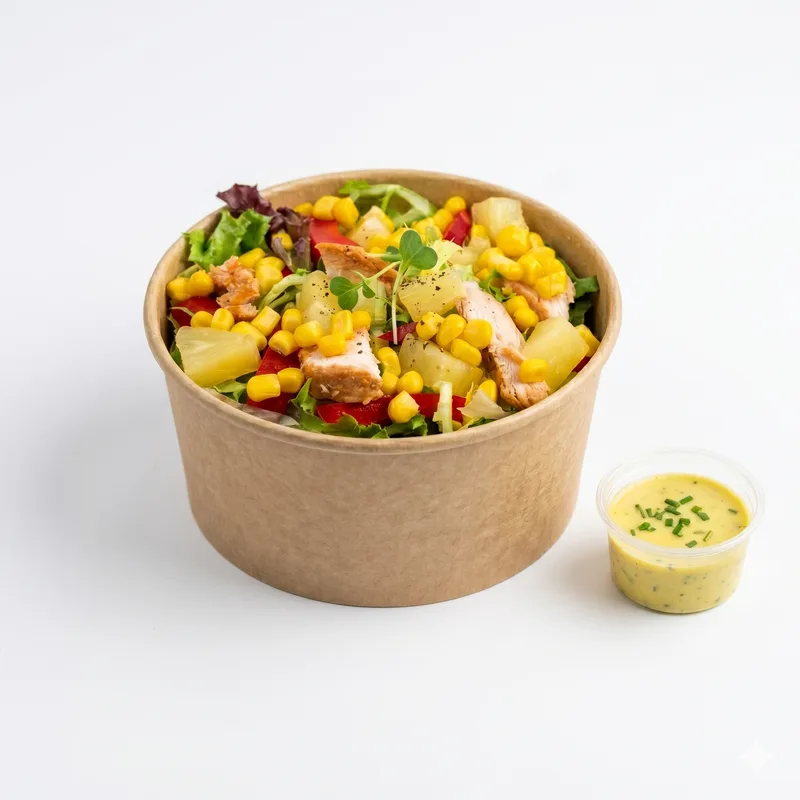
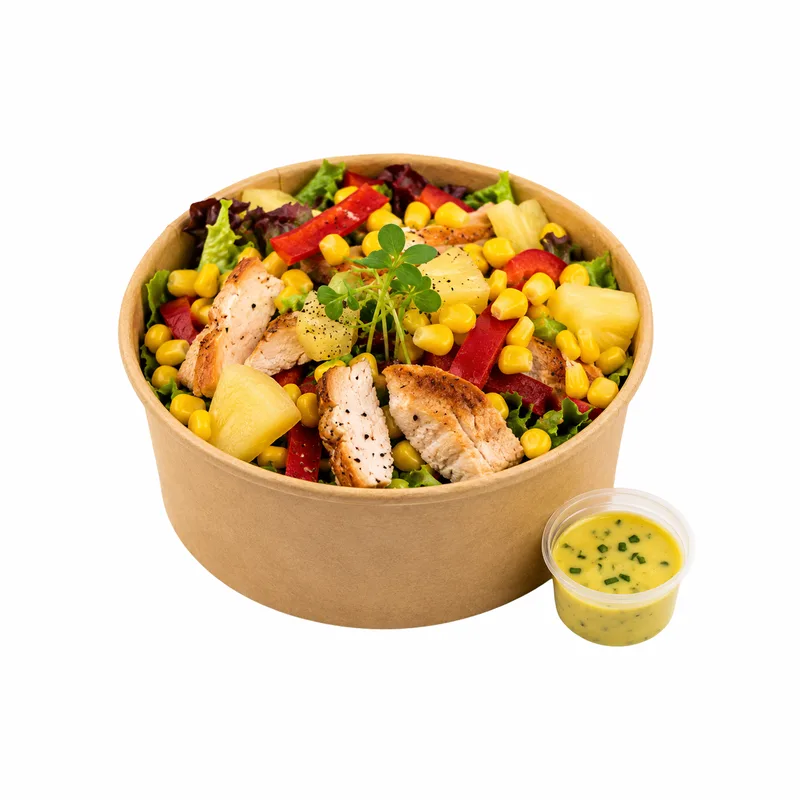
feat: nowe packshoty kanapki (4 boxy) + sałatki (8 bowli) w katalogu handlowym

diff --git a/katalog-produktow.html b/katalog-produktow.html
@@ -18,28 +18,26 @@ body{font-family:var(--font);color:var(--green-dark);background:var(--cream);-we
 img{max-width:100%;height:auto;display:block}
 
 /* ─── TOP BAR: logo + categories ─── */
-.topbar{flex-shrink:0;display:flex;flex-wrap:wrap;align-items:center;gap:6px 10px;padding:8px 20px;background:var(--green-dark);scrollbar-width:none}
+.topbar{flex-shrink:0;display:flex;flex-wrap:wrap;align-items:center;gap:6px 10px;padding:10px 20px;background:#fff;border-bottom:1px solid rgba(0,0,0,.06);scrollbar-width:none}
 .topbar::-webkit-scrollbar{display:none}
 .topbar-logo{display:flex;align-items:center;gap:8px;flex-shrink:0;margin-right:8px}
 .topbar-logo img{height:26px}
-.topbar-logo span{font-size:13px;font-weight:800;color:#fff;white-space:nowrap}
-.divider{width:1px;height:24px;background:rgba(255,255,255,.15);flex-shrink:0}
+.topbar-logo span{font-size:13px;font-weight:800;color:var(--green-dark);white-space:nowrap}
+.divider{width:1px;height:24px;background:rgba(0,0,0,.08);flex-shrink:0}
 .tab-row{display:flex;align-items:center;gap:5px;flex-shrink:0}
-.tab-row-label{font-size:9px;font-weight:700;text-transform:uppercase;letter-spacing:.8px;color:rgba(255,255,255,.3);margin-right:4px;white-space:nowrap}
+.tab-row-label{font-size:9px;font-weight:700;text-transform:uppercase;letter-spacing:.8px;color:rgba(0,0,0,.25);margin-right:4px;white-space:nowrap}
 .tab-row-sep{width:100%;height:0;flex-basis:100%}
-.kat-tab{display:inline-flex;align-items:center;gap:4px;padding:5px 12px;border-radius:var(--radius-pill);font-size:11px;font-weight:700;cursor:pointer;border:none;background:rgba(255,255,255,.08);color:rgba(255,255,255,.7);transition:all .2s;white-space:nowrap;flex-shrink:0;font-family:var(--font)}
-.kat-tab:hover{background:rgba(255,255,255,.15);color:#fff}
-.kat-tab.active{background:var(--lime);color:var(--green-dark)}
+.kat-tab{display:inline-flex;align-items:center;gap:4px;padding:5px 12px;border-radius:var(--radius-pill);font-size:11px;font-weight:700;cursor:pointer;border:1.5px solid transparent;background:rgba(0,0,0,.04);color:rgba(0,0,0,.5);transition:all .2s;white-space:nowrap;flex-shrink:0;font-family:var(--font)}
+.kat-tab:hover{background:rgba(0,0,0,.07);color:var(--green-dark)}
+.kat-tab.active{background:var(--cat-accent,var(--lime));color:#fff;border-color:var(--cat-accent,var(--lime))}
 .kat-tab .tc{font-size:9px;opacity:.6}
-.kat-tab.active .tc{opacity:.8}
+.kat-tab.active .tc{opacity:.9;color:rgba(255,255,255,.7)}
 
 /* ─── MAIN SPLIT: grid left + detail right ─── */
 .main{flex:1;display:flex;overflow:hidden;min-height:0}
 
 /* Left: product grid */
-.grid-panel{flex:1;overflow-y:auto;padding:16px 20px;-webkit-overflow-scrolling:touch;scrollbar-width:thin;scrollbar-color:rgba(27,94,58,.12) transparent}
-.grid-header{font-family:var(--font);font-size:13px;font-weight:400;color:rgba(61,90,30,.45);margin-bottom:8px;padding:0 2px}
-.grid-header strong{color:var(--green-dark);font-weight:800}
+.grid-panel{flex:1;overflow-y:auto;padding:16px 20px;-webkit-overflow-scrolling:touch;scrollbar-width:thin;scrollbar-color:rgba(27,94,58,.12) transparent;transition:background .4s ease}
 .grid-panel::-webkit-scrollbar{width:5px}
 .grid-panel::-webkit-scrollbar-thumb{background:rgba(27,94,58,.12);border-radius:3px}
 .products-grid{display:grid;grid-template-columns:repeat(2,1fr);gap:14px}
@@ -56,28 +54,28 @@ img{max-width:100%;height:auto;display:block}
 .detail-body::-webkit-scrollbar-thumb{background:rgba(27,94,58,.1);border-radius:2px}
 .detail-body h2{font-size:17px;font-weight:900;color:var(--green-dark);margin-bottom:2px;padding-top:12px}
 .detail-body .sub{font-size:12px;color:rgba(61,90,30,.45);margin-bottom:10px}
-.ppl-badge{display:inline-flex;align-items:center;gap:5px;background:rgba(141,198,63,.12);color:var(--green-dark);font-size:12px;font-weight:700;padding:5px 12px;border-radius:var(--radius-pill);margin-bottom:14px}
+.ppl-badge{display:inline-flex;align-items:center;gap:5px;background:color-mix(in srgb, var(--cat-accent,#8DC63F) 12%, transparent);color:var(--green-dark);font-size:12px;font-weight:700;padding:5px 12px;border-radius:var(--radius-pill);margin-bottom:14px}
 .ppl-badge svg{flex-shrink:0;opacity:.6}
-.detail-body h3{font-size:13px;font-weight:800;color:var(--green-dark);margin-bottom:8px;padding-bottom:6px;border-bottom:2px solid var(--lime)}
+.detail-body h3{font-size:13px;font-weight:800;color:var(--green-dark);margin-bottom:8px;padding-bottom:6px;border-bottom:2px solid var(--cat-accent,var(--lime))}
 .contents-list{list-style:none;padding:0}
 .contents-list li{font-size:12px;color:var(--gray);padding:4px 0;display:flex;align-items:baseline;gap:6px;border-bottom:1px solid rgba(27,94,58,.03)}
-.contents-list li::before{content:'✓';color:var(--lime);font-weight:700;font-size:11px;flex-shrink:0}
+.contents-list li::before{content:'✓';color:var(--cat-accent,var(--lime));font-weight:700;font-size:11px;flex-shrink:0}
 .contents-list li:last-child{border-bottom:none}
 
 /* Placeholder image card */
 .p-card-img svg{opacity:.6}
 
 /* ─── TRUST BAR ─── */
-.trust-bar{flex-shrink:0;display:flex;align-items:center;justify-content:center;gap:6px;padding:6px 20px;background:var(--green-dark);font-size:10px;color:rgba(255,255,255,.5);white-space:nowrap;overflow-x:auto;scrollbar-width:none}
+.trust-bar{flex-shrink:0;display:flex;align-items:center;justify-content:center;gap:6px;padding:6px 20px;background:#fff;border-top:1px solid rgba(0,0,0,.06);font-size:10px;color:rgba(0,0,0,.35);white-space:nowrap;overflow-x:auto;scrollbar-width:none}
 .trust-bar::-webkit-scrollbar{display:none}
-.trust-bar strong{color:rgba(255,255,255,.8);font-weight:700}
+.trust-bar strong{color:var(--green-dark);font-weight:700}
 .trust-sep{opacity:.3}
 
 /* ─── PRODUCT CARD ─── */
 .p-card{background:var(--white);border-radius:var(--radius);overflow:hidden;cursor:pointer;transition:all .3s cubic-bezier(.4,0,.2,1);border:none;position:relative;box-shadow:0 2px 12px rgba(0,0,0,.06)}
 .p-card:hover{transform:translateY(-3px);box-shadow:0 12px 36px rgba(0,0,0,.1)}
 .p-card.active{box-shadow:0 8px 32px rgba(0,0,0,.12)}
-.p-card-img{background:var(--white);padding:20px;display:flex;align-items:center;justify-content:center;height:420px;border-radius:var(--radius) var(--radius) 0 0;overflow:hidden}
+.p-card-img{background:var(--white);padding:20px;display:flex;align-items:center;justify-content:center;height:320px;border-radius:var(--radius) var(--radius) 0 0;overflow:hidden}
 .p-card-img img{max-width:92%;max-height:380px;object-fit:contain;transition:transform .4s cubic-bezier(.4,0,.2,1)}
 .p-card:hover .p-card-img img{transform:scale(1.06)}
 .p-card.active .p-card-img img{transform:scale(1.08)}
@@ -90,8 +88,8 @@ img{max-width:100%;height:auto;display:block}
 .p-card-items{font-size:10px;color:rgba(61,90,30,.3);font-weight:500;white-space:nowrap;overflow:hidden;text-overflow:ellipsis;max-width:100%}
 
 /* ─── CALC CTA BUTTON ─── */
-.calc-cta{margin-left:auto;flex-shrink:0;display:inline-flex;align-items:center;gap:6px;padding:8px 20px;border-radius:var(--radius-pill);font-size:12px;font-weight:800;cursor:pointer;border:none;background:#D32F2F;color:#fff;font-family:var(--font);transition:all .25s;white-space:nowrap;letter-spacing:.3px;box-shadow:0 2px 12px rgba(211,47,47,.3)}
-.calc-cta:hover{background:#B71C1C;box-shadow:0 4px 20px rgba(211,47,47,.4);transform:translateY(-1px)}
+.calc-cta{position:fixed;right:20px;bottom:20px;z-index:100;display:inline-flex;align-items:center;gap:6px;padding:10px 22px;border-radius:var(--radius-pill);font-size:12px;font-weight:800;cursor:pointer;border:none;background:#D32F2F;color:#fff;font-family:var(--font);transition:all .25s;white-space:nowrap;letter-spacing:.3px;box-shadow:0 4px 20px rgba(211,47,47,.35)}
+.calc-cta:hover{background:#B71C1C;box-shadow:0 6px 28px rgba(211,47,47,.45);transform:translateY(-2px)}
 .calc-cta svg{flex-shrink:0}
 
 /* ─── MODAL OVERLAY ─── */
@@ -183,6 +181,13 @@ img{max-width:100%;height:auto;display:block}
 .c-btn-back{background:transparent;color:rgba(61,90,30,.5);border-color:rgba(27,94,58,.1)}
 .c-btn-back:hover{border-color:var(--green-dark);color:var(--green-dark)}
 
+/* ─── HERO CARD (first item in grid) ─── */
+.hero-card{border-radius:var(--radius);position:relative;overflow:hidden;display:flex;align-items:center;justify-content:center;padding:12px;transition:background .4s ease;box-shadow:0 2px 12px rgba(0,0,0,.06)}
+.hero-card-inner{display:none}
+.hero-card-img{display:flex;align-items:center;justify-content:center;width:100%;height:100%}
+.hero-card-img img{width:100%;height:100%;object-fit:contain;filter:drop-shadow(0 6px 28px rgba(0,0,0,.1));transition:transform .6s cubic-bezier(.4,0,.2,1)}
+.hero-card:hover .hero-card-img img{transform:scale(1.04)}
+
 /* ─── RESPONSIVE ─── */
 @media(max-width:1200px){
     .products-grid{grid-template-columns:repeat(2,1fr);gap:12px}
@@ -208,9 +213,11 @@ img{max-width:100%;height:auto;display:block}
     .topbar-logo span{display:none}
     .tab-row-label{display:none}
     .tab-row{gap:4px}
-    .calc-cta{padding:6px 12px;font-size:11px}
-    .calc-cta svg{display:none}
+    .calc-cta{right:14px;bottom:14px;padding:8px 16px;font-size:11px}
     .brand-toggle-wrap{gap:4px}
+    .hero-card{padding:14px 14px 0}
+    .hero-card-inner h2{font-size:20px;letter-spacing:-.8px}
+    .hero-card-img img{max-height:120px}
     .modal{max-height:95vh;border-radius:var(--radius-sm)}
     .modal-backdrop{padding:10px}
     .c-cats{grid-template-columns:1fr 1fr}
@@ -234,18 +241,20 @@ img{max-width:100%;height:auto;display:block}
 
 /* ─── BETTERWORKPLACE THEME ─── */
 body.bw{--green-dark:#1E293B;--lime:#3B82F6;--lime-pale:#BFDBFE;--cream:#F8FAFC;--gray:#475569;--font-fun:var(--font)}
-body.bw .topbar{background:#0F172A}
-body.bw .kat-tab.active{background:#3B82F6;color:#fff}
-body.bw .p-card{background:#F8FAFC;border-color:transparent}
+body.bw .topbar{background:#fff;border-bottom-color:rgba(15,23,42,.06)}
+body.bw .kat-tab{background:rgba(15,23,42,.04);color:rgba(15,23,42,.5)}
+body.bw .kat-tab:hover{background:rgba(15,23,42,.08);color:#1E293B}
+body.bw .kat-tab.active{background:#3B82F6;color:#fff;border-color:#3B82F6}
+body.bw .p-card{background:#fff;border-color:transparent}
 body.bw .p-card:hover{border-color:rgba(59,130,246,.15);box-shadow:0 8px 28px rgba(30,41,59,.06)}
 body.bw .p-card.active{border-color:#3B82F6;box-shadow:0 0 0 1px #3B82F6}
 body.bw .p-card-img{background:#fff}
-body.bw .p-card-body{background:#F1F5F9}
+body.bw .p-card-body{background:#fff}
 body.bw .p-card-ppl{background:rgba(59,130,246,.08);color:#1E293B}
 body.bw .detail-body h3{border-bottom-color:#3B82F6}
 body.bw .contents-list li::before{color:#3B82F6}
 body.bw .ppl-badge{background:rgba(59,130,246,.1);color:#1E293B}
-body.bw .trust-bar{background:#0F172A}
+body.bw .trust-bar{background:#fff;border-top-color:rgba(15,23,42,.06)}
 body.bw .detail-panel{background:#fff}
 body.bw .detail-img-wrap{background:rgba(30,41,59,.02)}
 body.bw .calc-cta{background:#3B82F6;box-shadow:0 2px 12px rgba(59,130,246,.3)}
@@ -253,7 +262,7 @@ body.bw .calc-cta:hover{background:#2563EB;box-shadow:0 4px 20px rgba(59,130,246
 body.bw .grid-panel::-webkit-scrollbar-thumb{background:rgba(30,41,59,.12)}
 body.bw .p-card:hover{box-shadow:0 6px 20px rgba(30,41,59,.07)}
 body.bw .p-card-body h3{color:#1E293B}
-body.bw .p-card-img{background:rgba(30,41,59,.02)}
+body.bw .p-card-img{background:#fff}
 body.bw .modal-backdrop{background:rgba(15,23,42,.6)}
 body.bw .c-pill.active{background:#1E293B;border-color:#1E293B}
 body.bw .c-pill.done{border-color:#3B82F6;color:#3B82F6}
@@ -324,7 +333,7 @@ if(sessionStorage.getItem('katalog_auth')==='1'){document.getElementById('pwGate
 <div class="topbar">
     <div class="topbar-logo" id="brandLogo">
         <img src="fruitttt.svg" alt="DailyFruits" width="26" height="26" id="logoImg" style="display:none">
-        <img id="logoBW" src="bw-logo-white.svg" alt="Better Workplace" height="26">
+        <img id="logoBW" src="bw-logo.svg" alt="Better Workplace" height="26">
     </div>
     <div class="divider"></div>
     <!-- Row 1: Kategorie produktowe -->
@@ -351,7 +360,6 @@ if(sessionStorage.getItem('katalog_auth')==='1'){document.getElementById('pwGate
 <div class="main">
     <!-- Left: product grid -->
     <div class="grid-panel">
-        <div class="grid-header" id="gridHeader"><strong>Owoce</strong> — 5 zestawów</div>
         <div class="products-grid" id="grid"></div>
     </div>
     <!-- Right: detail panel -->
@@ -512,15 +520,15 @@ const P = [
     {id:"ka-4",cat:"kanapki",name:"Factory Box Plus",sub:"Pakiet 60 kanapek",ppl:"30–40",img:"katalog/kanapki-factory-box-plus.webp",contents:["Pakiet 60 kanapek","Stała podstawa + rotujące smaki dla większej różnorodności"]},
 
     // ═══ SAŁATKI — OPCJE WEGE ═══
-    {id:"sa-1",cat:"salatki",ppl:"1",name:"Sałatka grecka",sub:"Wege",img:"katalog/salatka-placeholder.webp",contents:["Sałata z pomidorem, ogórkiem, oliwkami, fetą, czerwoną cebulą oraz sosem vinegrette"]},
+    {id:"sa-1",cat:"salatki",ppl:"1",name:"Sałatka grecka",sub:"Wege",img:"katalog/salatka-grecka.webp",contents:["Sałata z pomidorem, ogórkiem, oliwkami, fetą, czerwoną cebulą oraz sosem vinegrette"]},
     {id:"sa-2",cat:"salatki",ppl:"1",name:"Sałatka z burakiem",sub:"Wege",img:"katalog/salatka-burak.webp",contents:["Burak, ogórek, camembert, orzechy włoskie, miks sałat i sos balsamico"]},
-    {id:"sa-3",cat:"salatki",ppl:"1",name:"Sałatka z jajkiem",sub:"Wege",img:"katalog/salatka-placeholder.webp",contents:["Jajko gotowane, twaróg wędzony, ogórek, rzodkiewka, pomidor, słonecznik i sos koperkowy"]},
+    {id:"sa-3",cat:"salatki",ppl:"1",name:"Sałatka z jajkiem",sub:"Wege",img:"katalog/salatka-jajko.webp",contents:["Jajko gotowane, twaróg wędzony, ogórek, rzodkiewka, pomidor, słonecznik i sos koperkowy"]},
     {id:"sa-4",cat:"salatki",ppl:"1",name:"Sałatka śródziemnomorska wegańska",sub:"Wegańska",img:"katalog/salatka-srodziemnomorska.webp",contents:["Ogórek, papryka, pomidorki, oliwki, suszone pomidory, kapary, słonecznik i sos z wegańskim pesto"]},
     // ═══ SAŁATKI — OPCJE MIĘSNE ═══
     {id:"sa-5",cat:"salatki",ppl:"1",name:"Bowl z hummusem i kurczakiem",sub:"Mięsna",img:"katalog/salatka-hummus-bowl.webp",contents:["Hummus, ogórek, pomidor koktajlowy, kalarepa, marchewka, kurczak i miks sałat"]},
     {id:"sa-6",cat:"salatki",ppl:"1",name:"Sałatka hawajska",sub:"Mięsna",img:"katalog/salatka-hawajska.webp",contents:["Kurczak, kukurydza, ananas, papryka i sos curry"]},
     {id:"sa-7",cat:"salatki",ppl:"1",name:"Sałatka meksykańska",sub:"Mięsna",img:"katalog/salatka-meksykanska.webp",contents:["Kurczak, papryka, kukurydza, czerwona fasola, ananas i natka pietruszki, z sosem pomidorowo-paprykowym"]},
-    {id:"sa-8",cat:"salatki",ppl:"1",name:"Sałatka z prosciutto crudo",sub:"Mięsna",img:"katalog/salatka-placeholder.webp",contents:["Prosciutto crudo, suszone pomidory, ogórek zielony, oliwki, mozzarella mini, pestki dyni i dressing na bazie oliwy"]},
+    {id:"sa-8",cat:"salatki",ppl:"1",name:"Sałatka z prosciutto crudo",sub:"Mięsna",img:"katalog/salatka-prosciutto.webp",contents:["Prosciutto crudo, suszone pomidory, ogórek zielony, oliwki, mozzarella mini, pestki dyni i dressing na bazie oliwy"]},
 
     // ═══ KAWA I EKSPRESY ═══
     {id:"kw-1",cat:"kawa",ppl:"",name:"Aromatyczne ziarna prosto z palarni",sub:"Kawa w abonamencie do biura",img:"katalog/kawa-ziarna.webp",contents:["Bez magazynowania","Bez pośredników","Wypalane tradycyjnymi metodami"]},
@@ -537,7 +545,22 @@ function imgHTML(p) {
 function renderGrid() {
     const g = document.getElementById('grid');
     const items = P.filter(p => p.cat === cat);
-    g.innerHTML = items.map(p => {
+    const label = CAT_LABELS[cat]||cat;
+    const count = CAT_COUNTS[cat]||0;
+    const emoji = CAT_EMOJIS[cat]||'';
+    const desc = CAT_DESCS[cat]||'';
+    const heroSrc = CAT_HEROES[cat]||'';
+    const heroImgHTML = heroSrc ? `<img src="${heroSrc}" alt="${label}">` : '';
+    const countWord = count===1?'zestaw':count<5?'zestawy':'zestawów';
+    const heroCard = `<div class="hero-card" style="background:${CAT_COLORS[cat]||''}">
+        <div class="hero-card-inner">
+            <h2>${label}</h2>
+            <div class="hero-desc">${desc}</div>
+            <div class="hero-count">${count} ${countWord}</div>
+        </div>
+        ${heroSrc ? `<div class="hero-card-img"><img src="${heroSrc}" alt="${label}"></div>` : ''}
+    </div>`;
+    const cards = items.map(p => {
         const pplBadge = p.ppl ? `<span class="p-card-ppl"><svg width="10" height="10" viewBox="0 0 24 24" fill="none" stroke="currentColor" stroke-width="2"><path d="M17 21v-2a4 4 0 00-4-4H5a4 4 0 00-4 4v2"/><circle cx="9" cy="7" r="4"/></svg>~${p.ppl}</span>` : '';
         const preview = p.contents.length > 2
             ? `<span class="p-card-items">${p.contents.slice(0,2).join(' · ')} +${p.contents.length-2}</span>`
@@ -551,6 +574,7 @@ function renderGrid() {
             </div>
         </div>`;
     }).join('');
+    g.innerHTML = heroCard + cards;
 }
 
 function renderDetail() {
@@ -583,12 +607,41 @@ function pick(id) {
 
 const CAT_LABELS = {owoce:'Owoce',sniadania:'Śniadania',napoje:'Napoje',spotkania:'Spotkania',biuro:'Na co dzień',integracje:'Integracje',kanapki:'Kanapki',salatki:'Sałatki',kawa:'Kawa'};
 const CAT_COUNTS = {owoce:5,sniadania:3,napoje:7,spotkania:3,biuro:9,integracje:2,kanapki:4,salatki:8,kawa:2};
+const CAT_HEROES = {
+  owoce:'katalog/hero/owoce.webp',sniadania:'katalog/hero/sniadania.webp',
+  napoje:'katalog/hero/napoje.webp',kanapki:'katalog/hero/kanapki.webp',
+  salatki:'katalog/hero/salatki.webp',kawa:'katalog/hero/kawa.webp',
+  biuro:'katalog/hero/biuro.webp',spotkania:'katalog/hero/spotkania.webp',
+  integracje:'katalog/hero/integracje.webp'
+};
+const CAT_DESCS = {
+  owoce:'Klasyczne zestawy owocowe i warzywne do firmowej kuchni.',
+  sniadania:'Gotowe pakiety na poranny team breakfast.',
+  napoje:'Soki NFC, smoothie, lemoniady i kombucha.',
+  kanapki:'Autorskie kanapki ze skladnikow z dnia dostawy.',
+  salatki:'Salatki, bowle i zestawy lunchowe.',
+  kawa:'Kawa z palarni + dzierzawa ekspresow.',
+  biuro:'Codzienne dostawy — owoce, przekaski, napoje.',
+  spotkania:'Finger food, smoothie bar i catering na spotkania.',
+  integracje:'Przekaski, napoje i wino na firmowe eventy.'
+};
+const CAT_EMOJIS = {owoce:'🍎',sniadania:'🥐',napoje:'🧃',kanapki:'🥪',salatki:'🥗',kawa:'☕',biuro:'📦',spotkania:'🤝',integracje:'🎉'};
+const CAT_COLORS = {
+  owoce:'#F0F9E8',sniadania:'#FFF3E6',napoje:'#EBF0FF',
+  kanapki:'#FFF8E1',salatki:'#E8F5E9',kawa:'#F5F0EB',
+  biuro:'#F0F7E4',spotkania:'#FCEEF5',integracje:'#FFF0F0'
+};
+const CAT_ACCENTS = {
+  owoce:'#4CAF50',sniadania:'#E8913A',napoje:'#5B7FDB',
+  kanapki:'#F9A825',salatki:'#66BB6A',kawa:'#8D6E63',
+  biuro:'#7CB342',spotkania:'#CE6BA1',integracje:'#EF5350'
+};
 function switchCat(c) {
     cat = c; sel = null;
     document.querySelectorAll('.kat-tab').forEach(t => t.classList.toggle('active', t.dataset.cat === c));
-    const label = CAT_LABELS[c]||c;
-    const count = CAT_COUNTS[c]||'';
-    document.getElementById('gridHeader').innerHTML = `<strong>${label}</strong> — ${count} ${count===1?'zestaw':count<5?'zestawy':'zestawów'}`;
+    const gp = document.querySelector('.grid-panel');
+    gp.style.background = CAT_COLORS[c]||'';
+    document.documentElement.style.setProperty('--cat-accent', CAT_ACCENTS[c]||'var(--lime)');
     const first = P.find(p => p.cat === c);
     if (first) sel = first.id;
     renderGrid();
@@ -618,10 +671,9 @@ function toggleBrand() {
 
 document.querySelectorAll('.kat-tab').forEach(t => t.addEventListener('click', () => switchCat(t.dataset.cat)));
 
-// Initial render with first product selected
+// Initial render with first product selected + category color
 sel = P[0].id;
-renderGrid();
-renderDetail();
+switchCat('owoce');
 
 // ═══════════════════════════════════════════
 // CALCULATOR LOGIC
